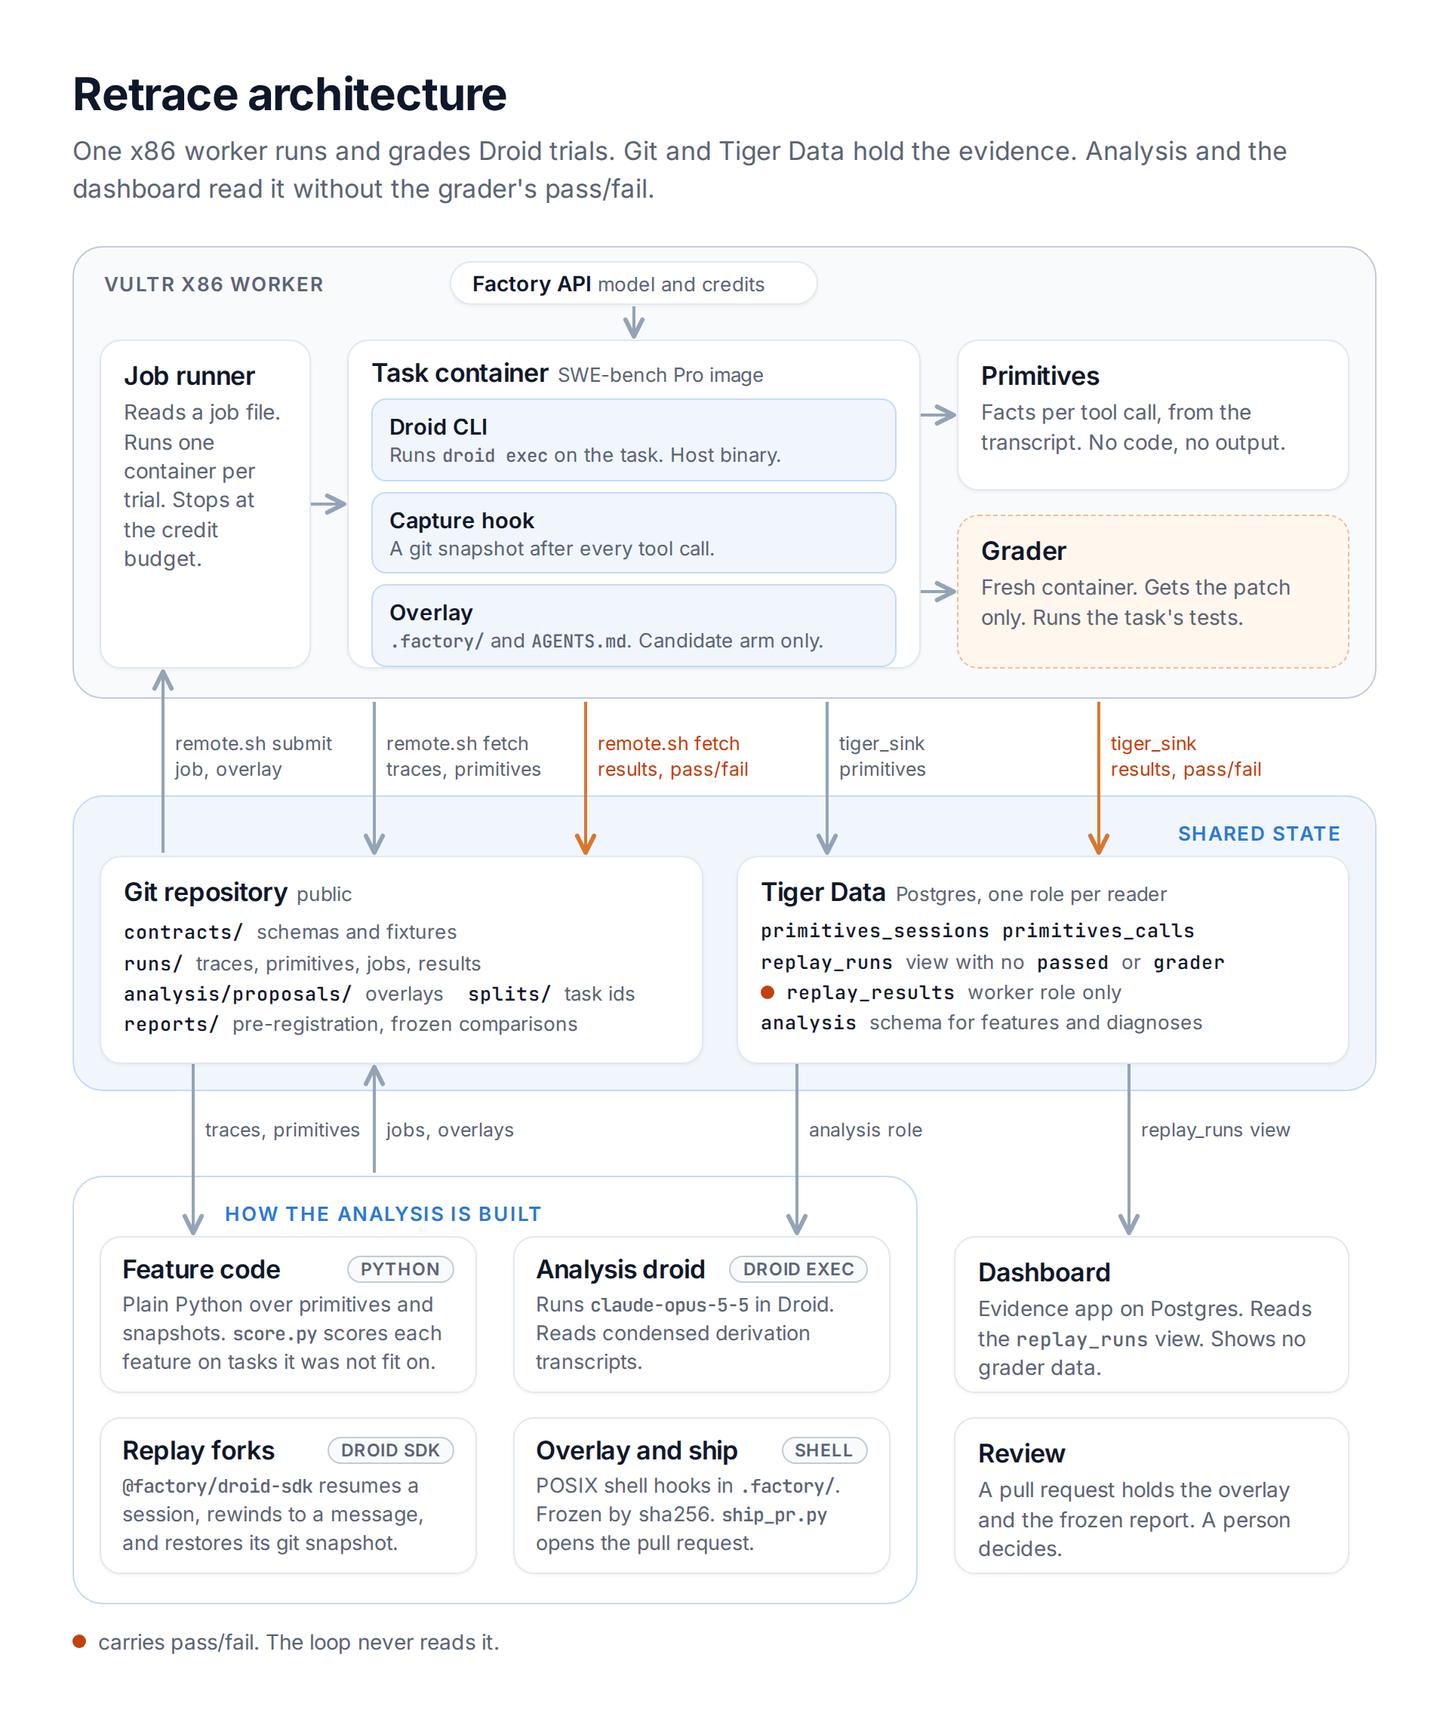
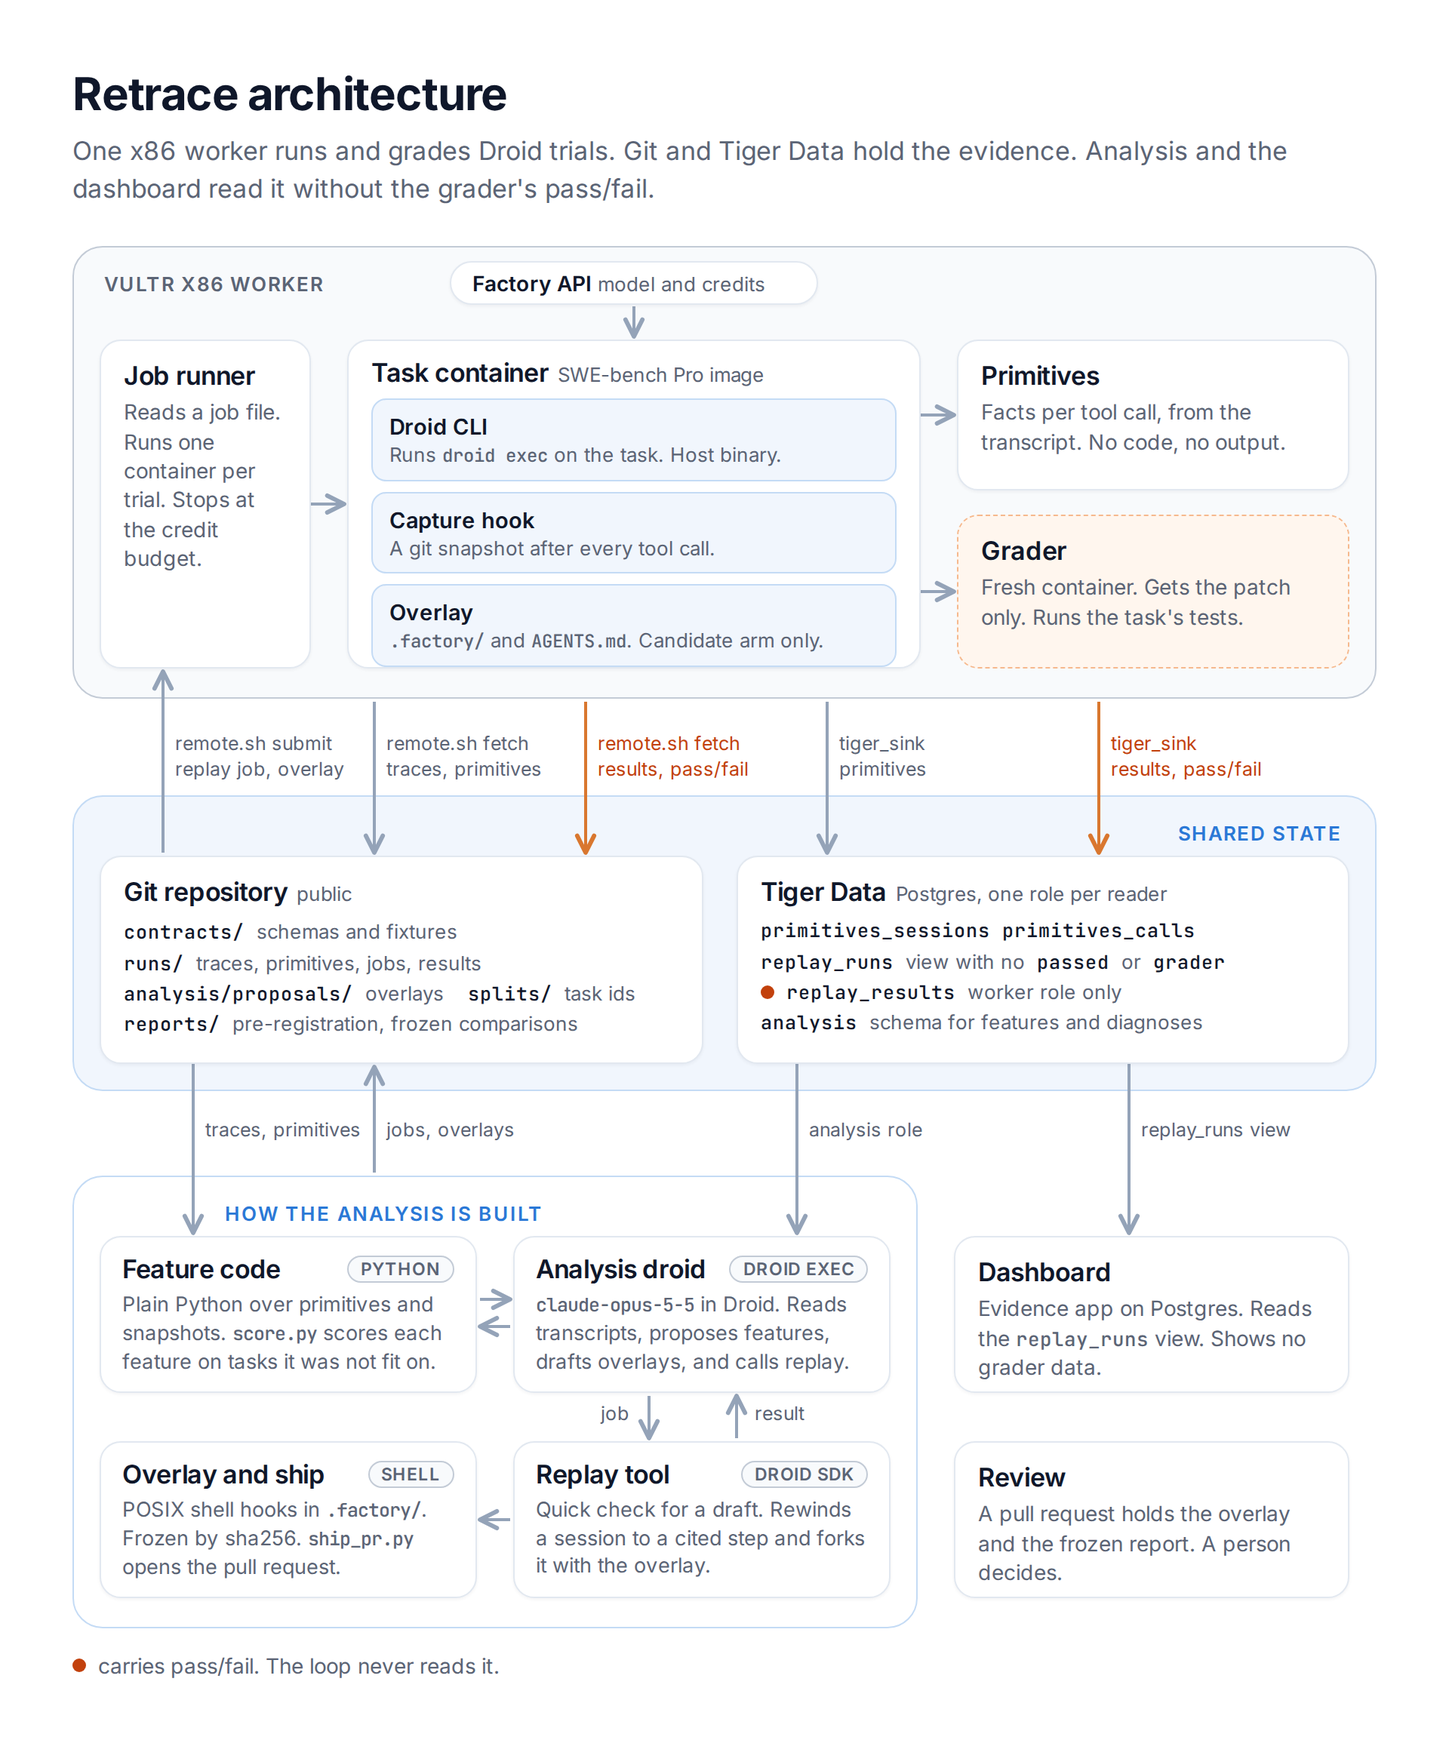
docs: mark agent, code, and tool steps and show replay as a tool

diff --git a/docs/devpost/pipeline.html b/docs/devpost/pipeline.html
@@ -4,15 +4,28 @@
 <meta charset="utf-8">
 <link rel="stylesheet" href="base.css">
 <style>
+  .n { display: flex; align-items: center; min-height: 22px; }
+  .k { margin-left: auto; font-family: Inter, system-ui, sans-serif; font-size: 11.5px; font-weight: 600; letter-spacing: .05em; text-transform: uppercase; border-radius: 999px; padding: 1px 9px; }
+  .k.agent { background: var(--accent); color: #fff; border: 1px solid var(--accent); }
+  .k.code { border: 1px solid var(--loop-edge); color: var(--accent-ink); background: #fff; }
+  .k.tool { border: 1px solid var(--accent); color: var(--accent); background: #fff; }
+  .k.person { border: 1px solid var(--oracle-edge); color: var(--muted); background: #fff; }
+  .card.agent { background: #e9f1fc; border-color: var(--accent); box-shadow: inset 5px 0 0 var(--accent); }
+  .head { display: flex; align-items: center; }
+  .key { margin-left: auto; display: flex; gap: 18px; font-size: 14px; color: var(--muted); align-items: center; }
+  .key span { display: inline-flex; align-items: center; gap: 7px; }
+  .key .k { margin: 0; }
   .loop { background: var(--loop); border: 1.5px solid var(--loop-edge); border-radius: 20px; padding: 22px 24px 20px; margin-top: 28px; }
   .grid { display: grid; grid-template-columns: 1fr 34px 1fr 34px 1fr; grid-template-rows: auto 30px auto; margin-top: 14px; }
   .grid .card { min-height: 128px; }
+  .card.tool { border: 1.5px dashed var(--accent); box-shadow: none; }
+  .card.tool .n { letter-spacing: .08em; }
   .ar { display: flex; align-items: center; justify-content: center; color: var(--faint); }
   .signals { margin-top: 18px; display: flex; gap: 8px; flex-wrap: wrap; align-items: center; }
   .chip { font-size: 14px; background: #fff; border: 1px solid var(--loop-edge); color: var(--accent-ink); border-radius: 999px; padding: 4px 11px; }
   .lbl { font-size: 14px; color: var(--muted); margin-right: 4px; }
   .drop { display: grid; grid-template-columns: 1fr 34px 1fr 34px 1fr; height: 34px; }
-  .drop .ar { grid-column: 1; }
+  .drop .ar { grid-column: 3; }
   .gate { background: var(--gate); border: 1.5px solid var(--gate-edge); border-radius: 16px; padding: 14px 20px; display: flex; gap: 18px; align-items: baseline; }
   .wall { display: flex; align-items: center; gap: 12px; margin: 16px 0 14px; color: var(--warm); font-size: 15px; font-weight: 600; }
   .wall .bar { flex: 1; border-top: 2px dashed var(--gate-edge); }
@@ -27,22 +40,23 @@
   <div class="sub">The loop finds and tests a fix with signals a production team already has. The benchmark grader checks the frozen fix once, from outside the loop.</div>
 
   <div class="loop">
-    <div class="tag">Improvement loop</div>
+    <div class="head"><div class="tag">Improvement loop</div>
+      <div class="key"><span><span class="k agent">agent</span>a model reasons</span><span><span class="k code">code</span>deterministic</span><span><span class="k tool">tool</span>an agent calls it</span></div></div>
     <div class="grid">
-      <div class="card"><div class="n">01</div><div class="t">Record</div><div class="d">Droid runs a task. Git snapshot after every tool call.</div></div>
+      <div class="card"><div class="n">01<span class="k code">code</span></div><div class="t">Record</div><div class="d">A hook records each Droid run and snapshots every tool call.</div></div>
       <div class="ar"><svg width="22" height="14" viewBox="0 0 22 14"><path d="M1 7h17M13 2l6 5-6 5" fill="none" stroke="currentColor" stroke-width="2" stroke-linecap="round" stroke-linejoin="round"/></svg></div>
-      <div class="card"><div class="n">02</div><div class="t">Primitives</div><div class="d">Facts per tool call. No code, no tool output.</div></div>
+      <div class="card"><div class="n">02<span class="k code">code</span></div><div class="t">Primitives</div><div class="d">Facts per tool call. No code, no tool output.</div></div>
       <div class="ar"><svg width="22" height="14" viewBox="0 0 22 14"><path d="M1 7h17M13 2l6 5-6 5" fill="none" stroke="currentColor" stroke-width="2" stroke-linecap="round" stroke-linejoin="round"/></svg></div>
-      <div class="card"><div class="n">03</div><div class="t">Features</div><div class="d">Code over primitives. Kept only if it predicts cost on unseen tasks.</div></div>
+      <div class="card"><div class="n">03<span class="k code">code</span></div><div class="t">Features</div><div class="d">Code over primitives. Kept only if it predicts cost on unseen tasks.</div></div>
 
       <div></div><div></div><div></div><div></div>
-      <div class="ar"><svg width="14" height="22" viewBox="0 0 14 22"><path d="M7 1v17M2 13l5 6 5-6" fill="none" stroke="currentColor" stroke-width="2" stroke-linecap="round" stroke-linejoin="round"/></svg></div>
+      <div class="ar" style="gap:10px"><svg width="14" height="24" viewBox="0 0 14 24"><path d="M7 1v22M2 6l5-5 5 5M2 18l5 5 5-5" fill="none" stroke="currentColor" stroke-width="2" stroke-linecap="round" stroke-linejoin="round"/></svg><span style="font-size:13px;color:var(--muted)">new features</span></div>
 
-      <div class="card"><div class="n">06</div><div class="t">Propose</div><div class="d">A <code>.factory/</code> overlay: hook, skill, droid, setting, or rule.</div></div>
+      <div class="card tool"><div class="n"><span style="visibility:hidden">00</span><span class="k tool">tool</span></div><div class="t">Replay</div><div class="d">Rewind to a cited step. Fork with the draft installed. A quick check.</div></div>
+      <div class="ar"><svg width="22" height="14" viewBox="0 0 22 14"><path d="M5 2L1 7l4 5M17 2l4 5-4 5M1 7h20" fill="none" stroke="currentColor" stroke-width="2" stroke-linecap="round" stroke-linejoin="round"/></svg></div>
+      <div class="card agent"><div class="n">05<span class="k agent">agent</span></div><div class="t">Propose</div><div class="d">An agent drafts a <code>.factory/</code> overlay and tests it with replay.</div></div>
       <div class="ar"><svg width="22" height="14" viewBox="0 0 22 14"><path d="M21 7H4M9 2L3 7l6 5" fill="none" stroke="currentColor" stroke-width="2" stroke-linecap="round" stroke-linejoin="round"/></svg></div>
-      <div class="card"><div class="n">05</div><div class="t">Replay</div><div class="d">Rewind to a cited step. Fork with the fix installed.</div></div>
-      <div class="ar"><svg width="22" height="14" viewBox="0 0 22 14"><path d="M21 7H4M9 2L3 7l6 5" fill="none" stroke="currentColor" stroke-width="2" stroke-linecap="round" stroke-linejoin="round"/></svg></div>
-      <div class="card"><div class="n">04</div><div class="t">Diagnose</div><div class="d">An agent explains costly sessions and cites the tool calls.</div></div>
+      <div class="card agent"><div class="n">04<span class="k agent">agent</span></div><div class="t">Diagnose</div><div class="d">An agent explains costly sessions, cites the tool calls, and proposes new features.</div></div>
     </div>
     <div class="signals"><span class="lbl">Signals</span><span class="chip">traces</span><span class="chip">snapshots</span><span class="chip">primitives</span><span class="chip">repo's own tests</span><span class="chip">credits</span></div>
   </div>
@@ -59,11 +73,11 @@
   <div class="oracle">
     <div class="tag grey">Validation, outside the loop</div>
     <div class="row3">
-      <div class="card"><div class="t">Fresh runs</div><div class="d">Fix vs unmodified Droid, from step 0, on repos the loop never saw.</div></div>
+      <div class="card"><div class="n"><span class="k code">code</span></div><div class="t">Fresh runs</div><div class="d">Fix vs unmodified Droid, from step 0, on repos the loop never saw.</div></div>
       <div class="ar"><svg width="22" height="14" viewBox="0 0 22 14"><path d="M1 7h17M13 2l6 5-6 5" fill="none" stroke="currentColor" stroke-width="2" stroke-linecap="round" stroke-linejoin="round"/></svg></div>
-      <div class="card"><div class="t">Grader</div><div class="d">SWE-bench Pro tests score each run. Counts, n, intervals.</div></div>
+      <div class="card"><div class="n"><span class="k code">code</span></div><div class="t">Grader</div><div class="d">SWE-bench Pro tests score each run. Counts, n, intervals.</div></div>
       <div class="ar"><svg width="22" height="14" viewBox="0 0 22 14"><path d="M1 7h17M13 2l6 5-6 5" fill="none" stroke="currentColor" stroke-width="2" stroke-linecap="round" stroke-linejoin="round"/></svg></div>
-      <div class="card"><div class="t">Review</div><div class="d">A person reads the evidence and decides whether to adopt the fix.</div></div>
+      <div class="card"><div class="n"><span class="k person">person</span></div><div class="t">Review</div><div class="d">A person reads the evidence and decides whether to adopt the fix.</div></div>
     </div>
   </div>
 </div>

diff --git a/docs/devpost/architecture.html b/docs/devpost/architecture.html
@@ -4,7 +4,7 @@
 <meta charset="utf-8">
 <link rel="stylesheet" href="base.css">
 <style>
-  .stage { position: relative; width: 864px; height: 900px; margin-top: 26px; }
+  .stage { position: relative; width: 864px; height: 916px; margin-top: 26px; }
   .stage svg { position: absolute; inset: 0; overflow: visible; }
   .band { position: absolute; left: 0; width: 864px; border-radius: 20px; border: 1.5px solid var(--line); }
   .band.worker { background: var(--oracle); border-color: var(--oracle-edge); }
@@ -56,9 +56,9 @@
   <div class="stage">
     <div class="band worker" style="top:0; height:300px"><div class="tag">Vultr x86 worker</div></div>
     <div class="band state" style="top:364px; height:196px"><div class="tag">Shared state</div></div>
-    <div class="band analysis" style="top:616px; height:284px"><div class="tag">How the analysis is built</div></div>
+    <div class="band analysis" style="top:616px; height:300px"><div class="tag">How the analysis is built</div></div>
 
-    <svg viewBox="0 0 864 900" width="864" height="900">
+    <svg viewBox="0 0 864 916" width="864" height="916">
       <defs>
         <marker id="a" viewBox="0 0 10 10" refX="8" refY="5" markerWidth="8" markerHeight="8" orient="auto"><path d="M1 1.5L8 5L1 8.5" fill="none" stroke="#94a3b8" stroke-width="1.8" stroke-linecap="round" stroke-linejoin="round"/></marker>
         <marker id="w" viewBox="0 0 10 10" refX="8" refY="5" markerWidth="8" markerHeight="8" orient="auto"><path d="M1 1.5L8 5L1 8.5" fill="none" stroke="#d9772f" stroke-width="1.8" stroke-linecap="round" stroke-linejoin="round"/></marker>
@@ -75,6 +75,11 @@
         <path d="M200 614V544"/>
         <path d="M480 542V654"/>
         <path d="M700 542V654"/>
+        <path d="M270 698H290"/>
+        <path d="M290 716H270"/>
+        <path d="M382 762V790"/>
+        <path d="M440 790V762"/>
+        <path d="M290 844H270"/>
       </g>
       <g fill="none" stroke="#d9772f" stroke-width="2" marker-end="url(#w)">
         <path d="M340 302V402"/>
@@ -106,7 +111,7 @@
       <div class="d">Fresh container. Gets the patch only. Runs the task's tests.</div>
     </div>
 
-    <div class="lab" style="left:68px; top:322px">remote.sh submit<br>job, overlay</div>
+    <div class="lab" style="left:68px; top:322px">remote.sh submit<br>replay job, overlay</div>
     <div class="lab" style="left:208px; top:322px">remote.sh fetch<br>traces, primitives</div>
     <div class="lab warm" style="left:348px; top:322px">remote.sh fetch<br>results, pass/fail</div>
     <div class="lab" style="left:508px; top:322px">tiger_sink<br>primitives</div>
@@ -143,23 +148,26 @@
     </div>
     <div class="st" style="left:292px; top:656px">
       <div class="h"><span class="t">Analysis droid</span><span class="chip2 tech">droid exec</span></div>
-      <div class="d">Runs <code>claude-opus-5-5</code> in Droid. Reads condensed derivation transcripts.</div>
+      <div class="d"><code>claude-opus-5-5</code> in Droid. Reads transcripts, proposes features, drafts overlays, and calls replay.</div>
     </div>
-    <div class="st" style="left:18px; top:776px">
-      <div class="h"><span class="t">Replay forks</span><span class="chip2 tech">droid sdk</span></div>
-      <div class="d"><code>@factory/droid-sdk</code> resumes a session, rewinds to a message, and restores its git snapshot.</div>
-    </div>
-    <div class="st" style="left:292px; top:776px">
+    <div class="st" style="left:18px; top:792px">
       <div class="h"><span class="t">Overlay and ship</span><span class="chip2 tech">shell</span></div>
       <div class="d">POSIX shell hooks in <code>.factory/</code>. Frozen by sha256. <code>ship_pr.py</code> opens the pull request.</div>
     </div>
+    <div class="st" style="left:292px; top:792px">
+      <div class="h"><span class="t">Replay tool</span><span class="chip2 tech">droid sdk</span></div>
+      <div class="d">Quick check for a draft. Rewinds a session to a cited step and forks it with the overlay.</div>
+    </div>
+
+    <div class="lab" style="left:350px; top:766px">job</div>
+    <div class="lab" style="left:452px; top:766px">result</div>
 
     <div class="box" style="left:584px; top:656px; width:262px; height:104px">
       <div class="t">Dashboard</div>
       <div class="d">Evidence app on Postgres. Reads the <code>replay_runs</code> view. Shows no grader data.</div>
     </div>
 
-    <div class="box" style="left:584px; top:776px; width:262px; height:104px">
+    <div class="box" style="left:584px; top:792px; width:262px; height:104px">
       <div class="t">Review</div>
       <div class="d">A pull request holds the overlay and the frozen report. A person decides.</div>
     </div>

diff --git a/README.md b/README.md
@@ -32,14 +32,14 @@ Systems that do evaluate their changes, such as DSPy [3], GEPA [4], the Darwin G
 | Record | Droid runs a task. A hook takes a git snapshot after every tool call. | `recorder/capture/` |
 | Primitives | Each tool call becomes deterministic facts: class, duration, exit code, files, output size, position, repeats. No command text and no tool output. | `recorder/capture/primitives.py` |
 | Features | Code over primitives and snapshots. A discovery step proposes new features, and a feature is kept only if it predicts credits on tasks it was not fit on. | `analysis/features/` |
-| Diagnose | An agent explains the expensive sessions from the kept features and cites tool call ids. | `analysis/features/diagnose.py` |
-| Replay | Rewind a recorded session to a cited step, restore its snapshot, and fork it with a fix installed. Forks are diagnosis only. | `recorder/replay/` |
-| Propose | The fix is an overlay under `.factory/`: a hook, skill, custom droid, setting, or `AGENTS.md` rule. | `analysis/proposals/` |
+| Diagnose | An agent explains the expensive sessions from the kept features, cites tool call ids, and proposes new features for code to score. | `analysis/features/diagnose.py` |
+| Propose | An agent drafts the fix as an overlay under `.factory/`: a hook, skill, custom droid, setting, or `AGENTS.md` rule. It tests each draft with replay. | `analysis/proposals/` |
+| Replay (tool) | The proposing agent calls it to check a draft. It rewinds a recorded session to a cited step, restores its snapshot, and forks it with the draft installed. Forks are diagnosis only. | `recorder/replay/` |
 | Validate | Freeze the fix, pre-register the claim, and run fix and control fresh from step 0 on held-out repos and a regression set. | `recorder/replay/run_final.sh`, `recorder/replay/report.py` |
 
 ![Replay: rewind a session and fork it](docs/devpost/replay.png)
 
-The system has three parts. A Vultr x86 worker runs Droid in the benchmark images and grades the patches. Git and Tiger Data hold the evidence. Analysis is plain Python feature code, an analysis droid, Droid SDK replay forks, and a shell-hook overlay that ships as a pull request. Analysis and the dashboard read the evidence through roles that cannot see pass/fail.
+The system has three parts. A Vultr x86 worker runs Droid in the benchmark images and grades the patches. Git and Tiger Data hold the evidence. Analysis is plain Python feature code and an analysis droid. The droid calls replay, a Droid SDK tool, to check a draft overlay on recorded sessions. The overlay is a shell hook that ships as a pull request. Analysis and the dashboard read the evidence through roles that cannot see pass/fail.
 
 ![Retrace architecture](docs/devpost/architecture.png)
 

diff --git a/docs/devpost/description.md b/docs/devpost/description.md
@@ -17,10 +17,10 @@ Retrace is a system for improving coding agent harnesses. It finds where an agen
 1. **Record.** Retrace runs Factory Droid on real tasks. Every tool call gets a git snapshot of the repo.
 2. **Extract primitives.** Each tool call becomes a set of deterministic facts: tool type, command class, duration, exit code, files touched, output size, position, and whether it repeats an earlier call. Primitives hold no command text and no tool output.
 3. **Find features.** Features are code over primitives and snapshots. Some catch failures, such as weakened tests, skipped verification, loops, and reverted edits. Others catch waste, such as re-reads and large tool outputs. A discovery agent proposes new features from the sessions that current features do not explain. Code promotes a feature only if it predicts cost on tasks it was not fit on.
-4. **Diagnose.** An agent explains the expensive sessions from the promoted features and cites the exact tool calls.
-5. **Replay.** Retrace rewinds a recorded session to any tool call, restores the repo snapshot, and forks the session with a candidate fix installed. This shows whether a cited step causes the cost.
-6. **Propose.** The fix is a small overlay under `.factory/`: a guardrail hook, a skill, a custom droid, a setting, or an `AGENTS.md` rule, ranked in that order.
-7. **Validate.** The fix is frozen, and the claim is pre-registered in git. Then the fix runs fresh from step 0 against unmodified Droid. It runs on held-out tasks from unseen repos and on a regression set. Every result reports counts, sample size, and an interval.
+4. **Diagnose.** An agent explains the expensive sessions from the promoted features and cites the exact tool calls. It also proposes new features, which code scores before keeping them.
+5. **Propose.** An agent drafts the fix as a small overlay under `.factory/`: a guardrail hook, a skill, a custom droid, a setting, or an `AGENTS.md` rule, ranked in that order. It tests each draft with replay, a tool it can call.
+   - **Replay (tool).** Retrace rewinds a recorded session to any tool call, restores the repo snapshot, and forks the session with the draft installed. This is a quick check of whether a cited step causes the cost. It is diagnosis, not final evidence.
+6. **Validate.** The fix is frozen, and the claim is pre-registered in git. Then the fix runs fresh from step 0 against unmodified Droid. It runs on held-out tasks from unseen repos and on a regression set. Every result reports counts, sample size, and an interval.
 
 ![Replay: rewind a session and fork it](https://raw.githubusercontent.com/andrewy1n/retrace/a210e03d2898cd2a2b1538ef3ffebb55a7c22aa5/docs/devpost/replay.png)
 
